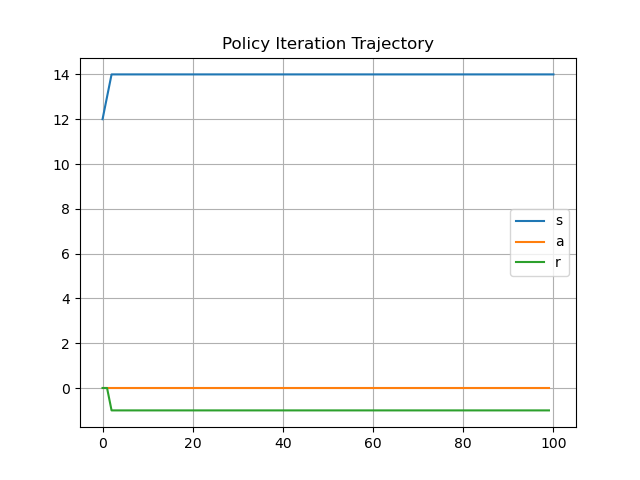
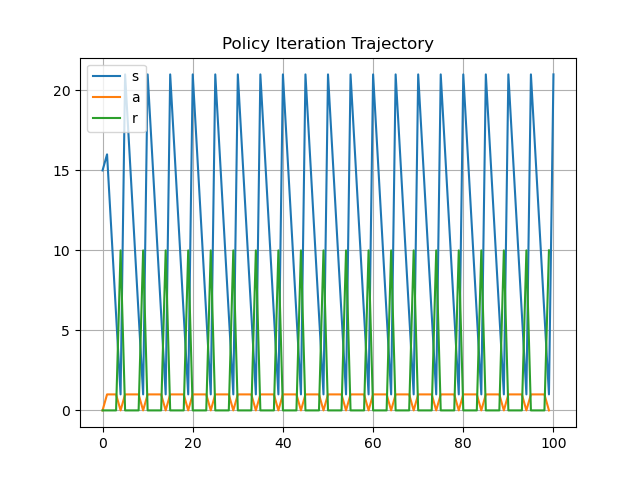
fix: policy iteration

diff --git a/algorithms/policy_iteration.py b/algorithms/policy_iteration.py
@@ -28,17 +28,19 @@ class PolicyIteration:
         gamma: float = self.gamma
 
         # 1 Initialization
-        V = np.zeros(self.num_states)
-        policy = np.zeros(self.num_states)
+        V = np.random.rand(self.num_states)
+        policy = np.random.randint(self.num_actions, size=self.num_states)
 
         V_history: list[float] = [np.mean(V)]
 
+        iter_ind: int = 0
         while True:
             # 2 Policy Evaluation
-            Delta: float = 0
 
-            while Delta >= self.theta:
+            print("Policy Evaluation")
+            while True:
                 for s in range(self.num_states):
+                    Delta: float = 0
                     v: float = V[s]
                     V[s] = np.sum(
                         [
@@ -47,26 +49,42 @@ class PolicyIteration:
                         ]
                     )
                     Delta = max(Delta, abs(v - V[s]))
+                    print(
+                        "Delta: {}, abs:{}, v:{}, V[s]:{}".format(
+                            Delta, abs(v - V[s]), v, V[s]
+                        )
+                    )
 
+                if Delta < self.theta:
+                    break
+                else:
+                    pass
+
+            print("Policy Improvement")
             # 3 Policy Improvement
             policy_stable: bool = True
             for s in range(self.num_states):
                 old_action: Action = policy[s]
                 policy[s] = np.argmax(
-                    np.sum(
-                        [
-                            p(s1, s, a) * (r(s, a) + gamma * V[s1])
-                            for s1 in range(self.num_states)
-                        ]
-                    )
-                    for a in range(self.num_actions)
+                    [
+                        np.sum(
+                            [
+                                p(s1, s, a) * (r(s, a) + gamma * V[s1])
+                                for s1 in range(self.num_states)
+                            ]
+                        )
+                        for a in range(self.num_actions)
+                    ]
                 )
+                print("old: {}, new: {}".format(old_action, policy[s]))
                 if old_action != policy[s]:
                     policy_stable = False
                 else:
                     pass
 
             V_history.append(np.mean(V))
+            print(iter_ind)
+            iter_ind += 1
 
             if policy_stable:
                 break

diff --git a/main_grid_pi.py b/main_grid_pi.py
@@ -11,7 +11,7 @@ from utils.plot import (
 # Gird World
 env = GridWorld()
 
-pi = PolicyIteration(env)
+pi = PolicyIteration(env, gamma=0.95)
 pi.train()
 plot_gridworld_trajectory(pi)
 plot_gridworld_policy(pi)
